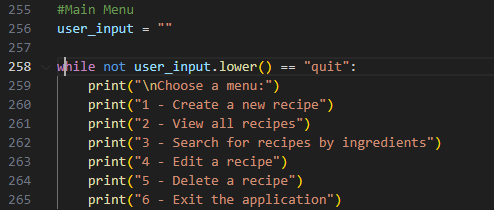
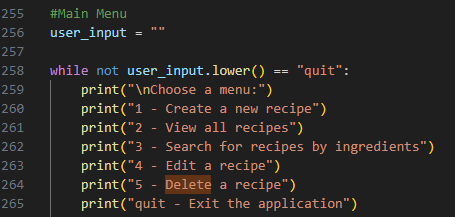
Updated main menu

diff --git a/Exercise1.7/Main_task/recipe_app.py b/Exercise1.7/Main_task/recipe_app.py
@@ -262,7 +262,9 @@ while not user_input.lower() == "quit":
     print("3 - Search for recipes by ingredients")
     print("4 - Edit a recipe")
     print("5 - Delete a recipe")
-    print("6 - Exit the application")
+    print("quit - Exit the application")
+
+    user_input = input("\nEnter the index of a menu to continue: ")
 
     if user_input == "1":
         create_recipe()
@@ -275,8 +277,10 @@ while not user_input.lower() == "quit":
     elif user_input == "5":
         delete_recipe()
     elif user_input.lower() == "quit":
+        print("\nClosing the application")
         session.close()
-        engine.close()
+        engine.raw_connection().close()
     else:
+        print("\n"+ "-"*20)
         print("Wrong choice entered. Try again!")
-
+        print("-"*20)
